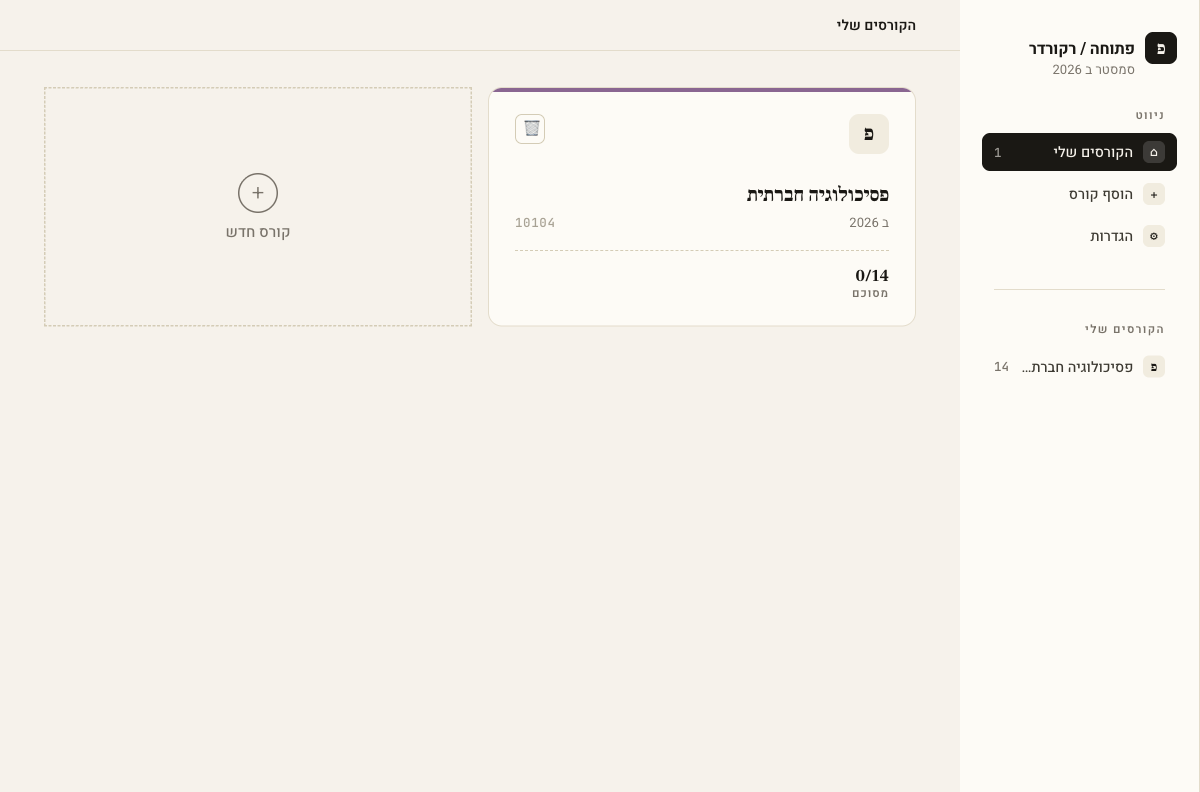
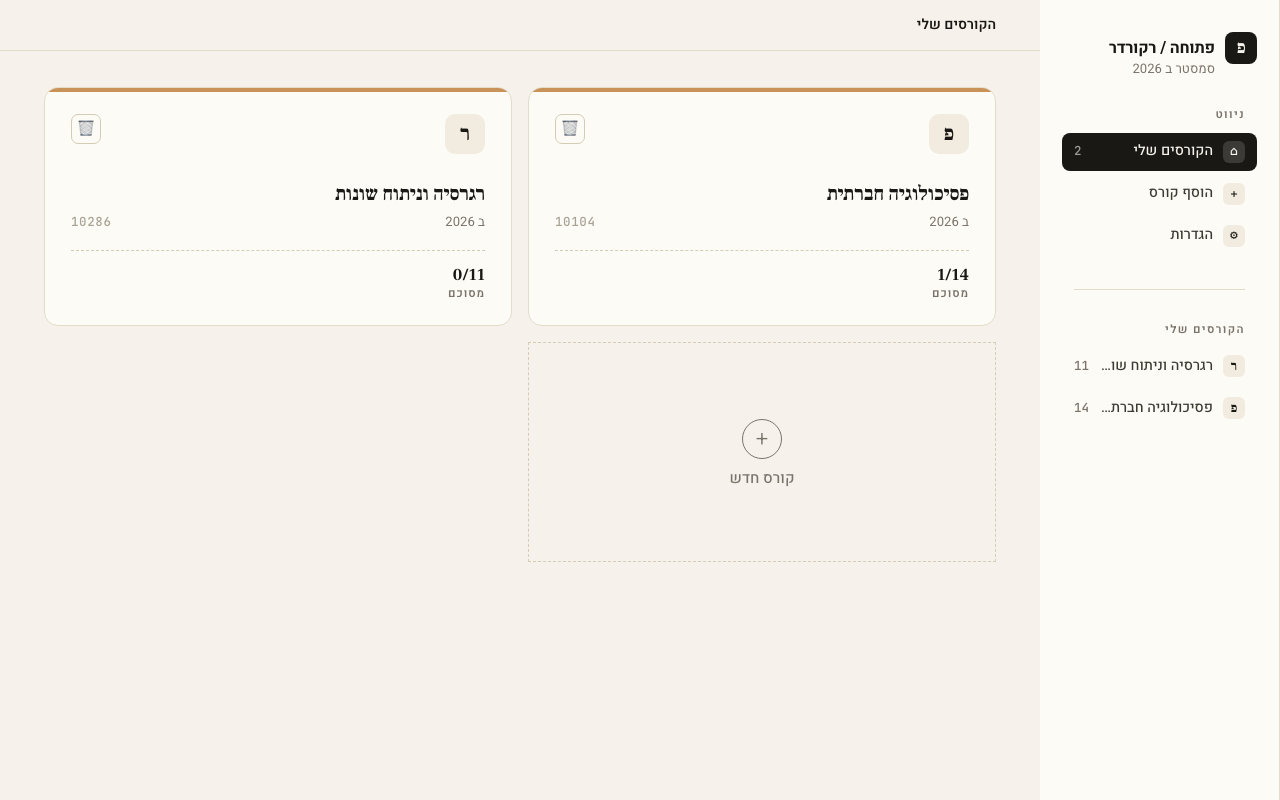
open-uni: refresh user guide screenshots with real course data

diff --git a/apps/open-uni/docs/user-guide.md b/apps/open-uni/docs/user-guide.md
@@ -67,7 +67,7 @@ Your courses appear under **הקורסים שלי**, each with how many of its l
 
 ## 4. Process lectures
 
-Open a course to see its lectures. Each one shows a status (**ממתין** = waiting, **מתמלל...** = transcribing, and so on). Click **▶ הפעל** on a lecture to download it, transcribe it, and summarize it.
+Open a course to see its lectures. Each one shows a status (**ממתין** = waiting, **מתמלל...** = transcribing, **סוכם** = summarized, and so on). Click **▶ הפעל** on a lecture to download it, transcribe it, and summarize it.
 
 ![Course](images/03-course.png)
 
